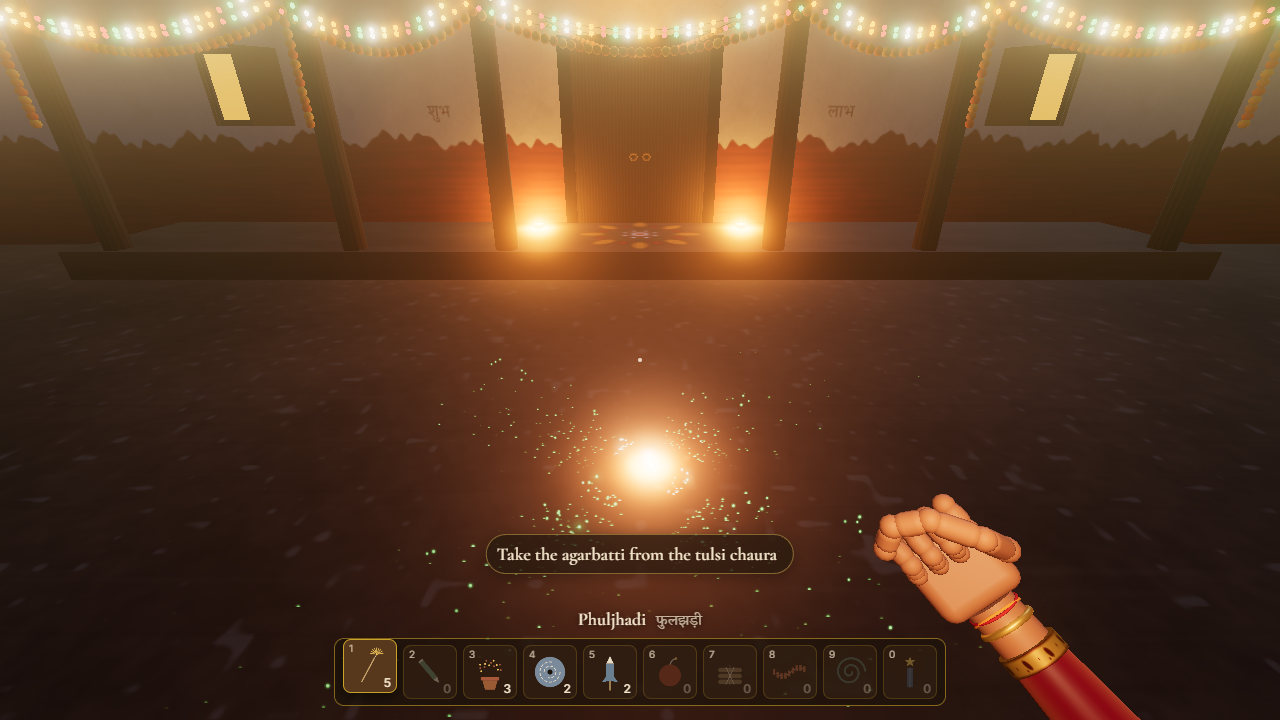
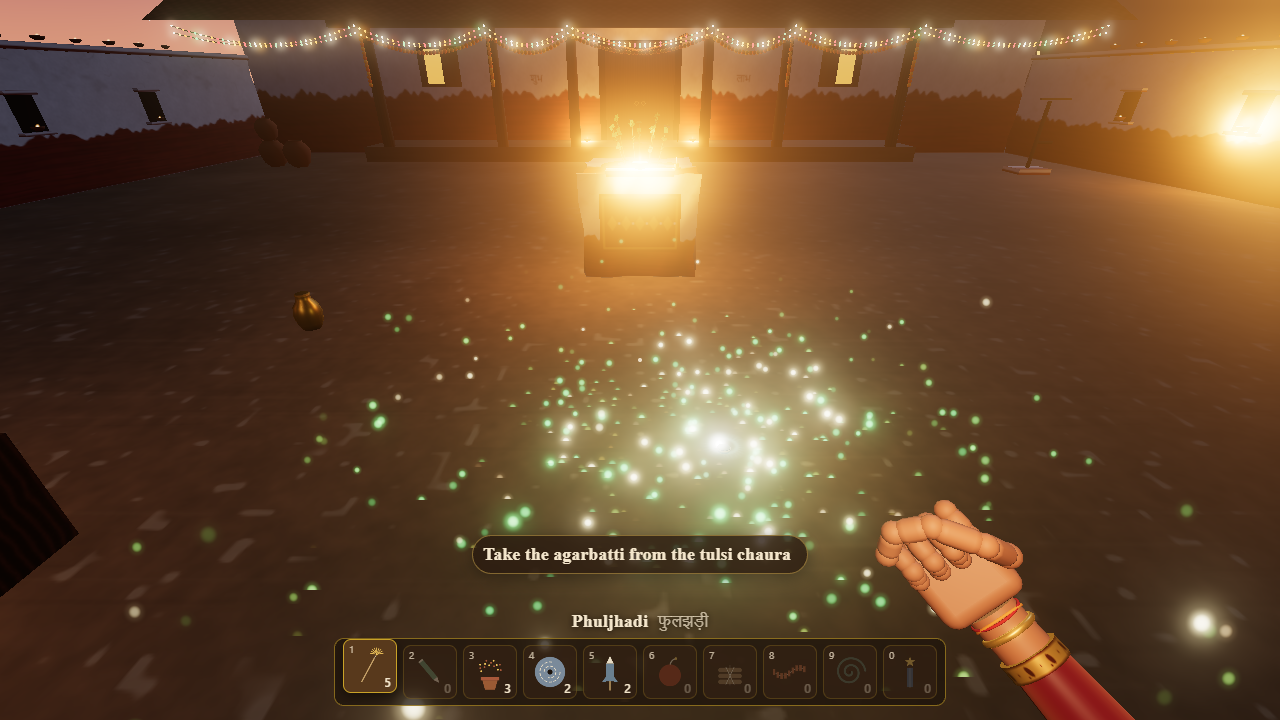
feat: make the chakri a blazing wheel of fire

diff --git a/src/crackers/Chakri.ts b/src/crackers/Chakri.ts
@@ -27,11 +27,24 @@ const CURVE_RATE = 1.1;
 const RIM_RADIUS = 0.035;
 /** Height of the rim above the floor, in metres. */
 const RIM_HEIGHT = 0.02;
-/** Sparks per second at full spin, split between the two nozzles. */
-const SPARK_RATE = 1000;
+/** Sparks per second at full spin, split between the nozzles. */
+const SPARK_RATE = 700;
+/** Nozzles spaced evenly round the rim; each throws a tangential jet, and together they trace spiral arms. */
+const NOZZLES = 4;
+/** Size range of a jet spark in metres: big enough to read as a fat glowing ember from 2 to 3 m. */
+const SPARK_SIZE: [number, number] = [0.05, 0.08];
+/** Lift added to each jet's direction, so the arcs rise off the ground a little before they fall and skip. */
+const JET_LIFT = 0.22;
+/** Seconds one full colour cycle takes: gold, emerald, rose and back, several times over the wheel's life. */
+const COLOR_CYCLE = 2.4;
 /** Radius of the glowing ring that sits above the wheel, in metres, and its height above the floor. */
-const GLOW_RADIUS = 0.042;
+const GLOW_RADIUS = 0.13;
 const GLOW_HEIGHT = 0.03;
+/** Radius of the soft pool of coloured light the wheel throws on the floor, and its height above it. */
+const POOL_RADIUS = 0.55;
+const POOL_HEIGHT = 0.004;
+/** Rate at which the ring's streak pattern turns, in rad/s, slow enough to see even though the wheel is a blur. */
+const STREAK_SPIN = 14;
 /** Largest tilt of the wheel while it wobbles, in radians. */
 const WOBBLE_TILT = 0.06;
 /** Wobble frequency in Hz. */
@@ -41,16 +54,17 @@ const HOP_SECONDS = 0.32;
 const HOP_HEIGHT: [number, number] = [0.02, 0.04];
 const HOP_GAP: [number, number] = [1.2, 2.2];
 /** Seconds between warm-light flickers on the ground. */
-const FLASH_INTERVAL = 0.12;
+const FLASH_INTERVAL = 0.07;
 /** Colours of the spark cycle, as hex numbers: gold, emerald, rose. */
 const GOLD = 0xffc24a;
 const EMERALD = 0x2fcf7a;
 const ROSE = 0xff4f7a;
 /** Warm light colour and its brightness range and reach. */
 const LIGHT_COLOR = 0xffa040;
-const LIGHT_INTENSITY: [number, number] = [0.8, 1.4];
-const LIGHT_DISTANCE = 3.5;
+const LIGHT_INTENSITY: [number, number] = [1.2, 2.6];
+const LIGHT_DISTANCE = 8;
 const TAU = Math.PI * 2;
+const WHITE = new THREE.Color(0xffffff);
 
 /**
  * Spark colour at a fraction `f` of the wheel's life: gold at the start, then emerald, then rose, then gold again at
@@ -63,6 +77,12 @@ export function chakriPhaseColor(f: number): number {
   const from = [GOLD, EMERALD, ROSE][leg];
   const to = [EMERALD, ROSE, GOLD][leg];
   return blendHex(from, to, u);
+}
+
+/** Fraction of the colour cycle reached `t` seconds after ignition: the phases repeat every COLOR_CYCLE seconds. */
+export function cycleFraction(t: number): number {
+  const x = (t / COLOR_CYCLE) % 1;
+  return x < 0 ? x + 1 : x;
 }
 
 /** Straight blend of two hex colours, channel by channel, with `u` in 0..1 from `a` to `b`. */
@@ -90,40 +110,84 @@ export function hopOffset(u: number, height: number): number {
   return 4 * height * u * (1 - u);
 }
 
-/** Shared glow texture and material, made the first time a chakri is lit so they are not rebuilt per wheel. */
-let glowTexture: THREE.CanvasTexture | null = null;
-let glowMaterial: THREE.MeshBasicMaterial | null = null;
+/** Shared textures, made the first time a chakri is lit so they are not rebuilt per wheel. */
+let ringTexture: THREE.CanvasTexture | null = null;
+let poolTexture: THREE.CanvasTexture | null = null;
 
 /**
- * The shared additive material for the rim glow: a radial gradient that is dark in the middle, bright at the rim
- * and fades out past it, so the spinning wheel reads as one blazing ring.
+ * The ring texture: a bright rim band with radial streaks (spokes of uneven length and brightness) running out
+ * of it, drawn white so the material colour can tint it. Turned slowly, the spokes make the wheel read as spinning.
  */
-function glowMat(): THREE.MeshBasicMaterial {
-  if (glowMaterial) return glowMaterial;
+function ringTex(): THREE.CanvasTexture {
+  if (ringTexture) return ringTexture;
+  const size = 256;
+  const c = size / 2;
+  const canvas = document.createElement('canvas');
+  canvas.width = size;
+  canvas.height = size;
+  const ctx = canvas.getContext('2d');
+  if (ctx) {
+    // Spokes: 28 thin wedges from just inside the rim to varying lengths beyond it, in uneven brightness.
+    ctx.globalCompositeOperation = 'lighter';
+    for (let k = 0; k < 28; k++) {
+      const a = (k / 28) * TAU + Math.sin(k * 12.9898) * 0.05;
+      const inner = c * 0.42;
+      const outer = c * (0.7 + 0.28 * Math.abs(Math.sin(k * 78.233)));
+      const g = ctx.createLinearGradient(c + Math.cos(a) * inner, c + Math.sin(a) * inner, c + Math.cos(a) * outer, c + Math.sin(a) * outer);
+      const alpha = 0.45 + 0.4 * Math.abs(Math.sin(k * 3.7));
+      g.addColorStop(0, `rgba(255,255,255,${alpha})`);
+      g.addColorStop(1, 'rgba(255,255,255,0)');
+      ctx.strokeStyle = g;
+      ctx.lineWidth = 3.5;
+      ctx.beginPath();
+      ctx.moveTo(c + Math.cos(a) * inner, c + Math.sin(a) * inner);
+      ctx.lineTo(c + Math.cos(a) * outer, c + Math.sin(a) * outer);
+      ctx.stroke();
+    }
+    // Rim band: hot white at the wheel's edge, fading to nothing inside and outside it.
+    const rim = ctx.createRadialGradient(c, c, 0, c, c, c);
+    rim.addColorStop(0, 'rgba(255,255,255,0.10)');
+    rim.addColorStop(0.36, 'rgba(255,255,255,0.25)');
+    rim.addColorStop(0.5, 'rgba(255,255,255,1)');
+    rim.addColorStop(0.62, 'rgba(255,255,255,0.35)');
+    rim.addColorStop(1, 'rgba(255,255,255,0)');
+    ctx.fillStyle = rim;
+    ctx.fillRect(0, 0, size, size);
+  }
+  ringTexture = new THREE.CanvasTexture(canvas);
+  return ringTexture;
+}
+
+/** The floor pool texture: a soft white radial falloff, tinted by the material colour to light the ground. */
+function poolTex(): THREE.CanvasTexture {
+  if (poolTexture) return poolTexture;
   const size = 128;
   const canvas = document.createElement('canvas');
   canvas.width = size;
   canvas.height = size;
   const ctx = canvas.getContext('2d');
   if (ctx) {
-    const grad = ctx.createRadialGradient(size / 2, size / 2, 0, size / 2, size / 2, size / 2);
-    grad.addColorStop(0, 'rgba(255,200,90,0)');
-    grad.addColorStop(0.55, 'rgba(255,190,80,0)');
-    grad.addColorStop(0.8, 'rgba(255,230,150,1)');
-    grad.addColorStop(0.93, 'rgba(255,150,70,0.5)');
-    grad.addColorStop(1, 'rgba(255,120,50,0)');
-    ctx.fillStyle = grad;
+    const g = ctx.createRadialGradient(size / 2, size / 2, 0, size / 2, size / 2, size / 2);
+    g.addColorStop(0, 'rgba(255,255,255,0.9)');
+    g.addColorStop(0.35, 'rgba(255,255,255,0.35)');
+    g.addColorStop(1, 'rgba(255,255,255,0)');
+    ctx.fillStyle = g;
     ctx.fillRect(0, 0, size, size);
   }
-  glowTexture = new THREE.CanvasTexture(canvas);
-  glowMaterial = new THREE.MeshBasicMaterial({
-    map: glowTexture,
+  poolTexture = new THREE.CanvasTexture(canvas);
+  return poolTexture;
+}
+
+/** An additive, unlit material around a shared texture; each wheel gets its own so it can tint it with its colour. */
+function additiveMat(map: THREE.Texture): THREE.MeshBasicMaterial {
+  return new THREE.MeshBasicMaterial({
+    map,
     transparent: true,
     depthWrite: false,
     blending: THREE.AdditiveBlending,
     toneMapped: false,
+    side: THREE.DoubleSide,
   });
-  return glowMaterial;
 }
 
 /** Chakri: a ground wheel that spins and wanders, throwing phased sparks from two rim nozzles and glowing as a disc. */
@@ -149,15 +213,23 @@ export class Chakri extends Cracker {
   private hopHeight = 0;
   /** Seconds since the last warm-light flicker. */
   private flashAcc = 0;
-  /** The rim glow, which sits above the wheel and rides its tilt. */
+  /** The ring of streaks above the wheel (it rides the wheel's tilt), and the pool of light it throws on the floor. */
   private glow: THREE.Mesh | null = null;
+  private pool: THREE.Mesh | null = null;
+  /** This wheel's two materials, tinted every frame with the phase colour and disposed with the wheel. */
+  private glowMat: THREE.MeshBasicMaterial | null = null;
+  private poolMat: THREE.MeshBasicMaterial | null = null;
+  /** The warm base the floor light is blended toward, so every phase still reads as firelight. */
+  private readonly warm = new THREE.Color(LIGHT_COLOR);
+  /** Scratch colour for tinting, reused every frame. */
+  private readonly tint = new THREE.Color();
   /** Scratch vectors, reused so sparks and the walk do not allocate. */
   private readonly rimPos = new THREE.Vector3();
   private readonly nozzle = new THREE.Vector3();
   private readonly dir = new THREE.Vector3();
   private readonly lightPos = new THREE.Vector3();
-  /** One-element colour list, reused for each emit so the phase colour needs no new array. */
-  private readonly colorBuf: number[] = [GOLD];
+  /** Colour list reused for each emit: the phase colour twice and a white-gold, so jets are mostly coloured with hot flecks. */
+  private readonly colorBuf: number[] = [GOLD, GOLD, GOLD, 0xfff0c0];
 
   /** Builds the chakri around its model; spinning starts when the fuse runs out. */
   constructor(fx: FxContext, model: THREE.Group) {
@@ -173,12 +245,20 @@ export class Chakri extends Cracker {
     this.fx.audio.play('whistle', this.rimPos, { duration: CHAKRI_SECONDS });
     this.fx.audio.play('fizz', this.rimPos, { duration: CHAKRI_SECONDS });
 
-    // The glow is a flat ring just above the wheel, sized to the rim so it reads as the spinning edge.
+    // The ring is a flat disc just above the wheel carrying the streak texture; it turns on its own, slowly.
     const geo = new THREE.CircleGeometry(GLOW_RADIUS, 40);
     geo.rotateX(-Math.PI / 2);
-    this.glow = new THREE.Mesh(geo, glowMat());
+    this.glowMat = additiveMat(ringTex());
+    this.glow = new THREE.Mesh(geo, this.glowMat);
     this.glow.position.y = GLOW_HEIGHT;
     this.object.add(this.glow);
+
+    // The pool lies on the floor, a child of the scene rather than the spinning wheel, and follows it each frame.
+    const poolGeo = new THREE.CircleGeometry(POOL_RADIUS, 32);
+    poolGeo.rotateX(-Math.PI / 2);
+    this.poolMat = additiveMat(poolTex());
+    this.pool = new THREE.Mesh(poolGeo, this.poolMat);
+    this.fx.scene.add(this.pool);
   }
 
   /** Spins, wobbles, hops, wanders, throws phased rim sparks and flickers its light; ends after seven seconds. */
@@ -201,10 +281,22 @@ export class Chakri extends Cracker {
     this.hop(t);
     this.object.position.y = this.groundY + hopOffset(this.hopStart < 0 ? 0 : (t - this.hopStart) / HOP_SECONDS, this.hopHeight);
 
-    if (this.glow) {
-      // The glow pulses very slightly in size, so the disc looks like it is blazing rather than static.
+    // Tint the ring and the floor pool with the current phase colour, so the colour cycle is seen on the wheel itself.
+    const tintHex = chakriPhaseColor(cycleFraction(t));
+    this.tint.setHex(tintHex);
+    const spunUp = Math.min(1, t / SPIN_RAMP);
+    const flare = 0.85 + 0.15 * Math.sin(t * 53) + 0.1 * Math.sin(t * 31);
+    if (this.glow && this.glowMat) {
+      // The streak pattern counter-turns against the wheel's own spin, leaving a slow readable rotation, and the
+      // ring pulses in size and brightness so the disc looks like it is blazing rather than static.
+      this.glow.rotation.y = t * STREAK_SPIN - this.object.rotation.y;
       const pulse = 1 + 0.06 * Math.sin(t * 40);
       this.glow.scale.set(pulse, 1, pulse);
+      this.glowMat.color.copy(this.tint).lerp(WHITE, 0.35).multiplyScalar(0.6 * flare * spunUp);
+    }
+    if (this.pool && this.poolMat) {
+      this.pool.position.set(this.object.position.x, this.groundY + POOL_HEIGHT, this.object.position.z);
+      this.poolMat.color.copy(this.tint).multiplyScalar(0.2 * flare * spunUp);
     }
 
     this.wander(dt);
@@ -254,26 +346,30 @@ export class Chakri extends Cracker {
     if (n <= 0) return;
     this.sparkAcc -= n;
 
-    // Rim velocity: the rim point at local +x moves along local -z, and the one at -x along +z.
+    // Rim speed of each nozzle: the spin rate times the rim radius, so the faster the wheel the farther the jets reach.
     const rimSpeed = Math.abs(this.spin) * RIM_RADIUS;
-    const colour = chakriPhaseColor(t / CHAKRI_SECONDS);
+    const colour = chakriPhaseColor(cycleFraction(t));
     this.colorBuf[0] = colour;
-    const half = Math.ceil(n / 2);
-    for (let side = 0; side < 2; side++) {
-      const sign = side === 0 ? 1 : -1;
-      this.nozzle.set(sign * RIM_RADIUS, RIM_HEIGHT, 0);
+    this.colorBuf[1] = colour;
+    this.colorBuf[2] = colour;
+    const each = Math.ceil(n / NOZZLES);
+    for (let k = 0; k < NOZZLES; k++) {
+      // Nozzle k sits at angle k/NOZZLES round the rim; its jet leaves along the tangent, in the spin direction.
+      const a = (k / NOZZLES) * TAU;
+      this.nozzle.set(Math.cos(a) * RIM_RADIUS, RIM_HEIGHT, Math.sin(a) * RIM_RADIUS);
       this.object.localToWorld(this.nozzle);
-      this.dir.set(0, 0, -sign).applyQuaternion(this.object.quaternion);
+      this.dir.set(Math.sin(a), JET_LIFT, -Math.cos(a)).applyQuaternion(this.object.quaternion);
       this.fx.sparks.emit({
         position: this.nozzle,
         direction: this.dir,
-        speed: rimSpeed * (0.8 + Math.random() * 0.4),
-        spread: 0.45,
-        count: half,
+        speed: rimSpeed * (0.7 + Math.random() * 0.5),
+        spread: 0.4,
+        count: each,
         colors: this.colorBuf,
-        life: [0.4, 0.9],
-        size: [0.018, 0.03],
-        drag: 0.6,
+        life: [0.5, 1.0],
+        size: SPARK_SIZE,
+        gravity: 4,
+        drag: 0.9,
         crackle: true,
       });
     }
@@ -285,14 +381,22 @@ export class Chakri extends Cracker {
     if (this.flashAcc < FLASH_INTERVAL) return;
     this.flashAcc -= FLASH_INTERVAL;
     this.object.getWorldPosition(this.lightPos);
-    this.lightPos.y += 0.03;
+    this.lightPos.y += 0.7;
     const k = LIGHT_INTENSITY[0] + Math.random() * (LIGHT_INTENSITY[1] - LIGHT_INTENSITY[0]);
-    this.fx.flashes.flash(this.lightPos, LIGHT_COLOR, k, LIGHT_DISTANCE, FLASH_INTERVAL + 0.04);
+    this.tint.setHex(chakriPhaseColor(cycleFraction(this.activeTime))).lerp(this.warm, 0.5);
+    this.fx.flashes.flash(this.lightPos, this.tint.getHex(), k, LIGHT_DISTANCE, FLASH_INTERVAL + 0.04);
   }
 
-  /** On top of the base cleanup: frees the glow's own geometry, keeping the shared material and texture. */
+  /** On top of the base cleanup: frees the wheel's own materials and the floor pool, keeping the shared textures. */
   override dispose(): void {
+    this.glowMat?.dispose();
+    this.poolMat?.dispose();
+    this.pool?.removeFromParent();
+    this.pool?.geometry.dispose();
     this.glow = null;
+    this.pool = null;
+    this.glowMat = null;
+    this.poolMat = null;
     super.dispose();
   }
 }
